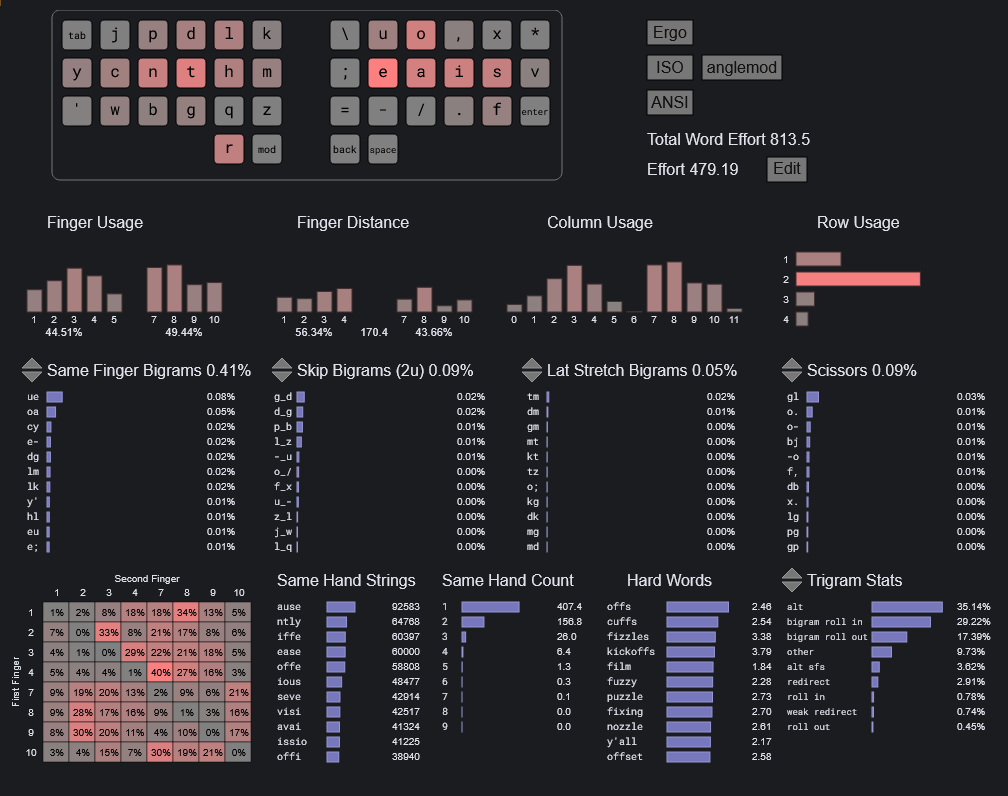
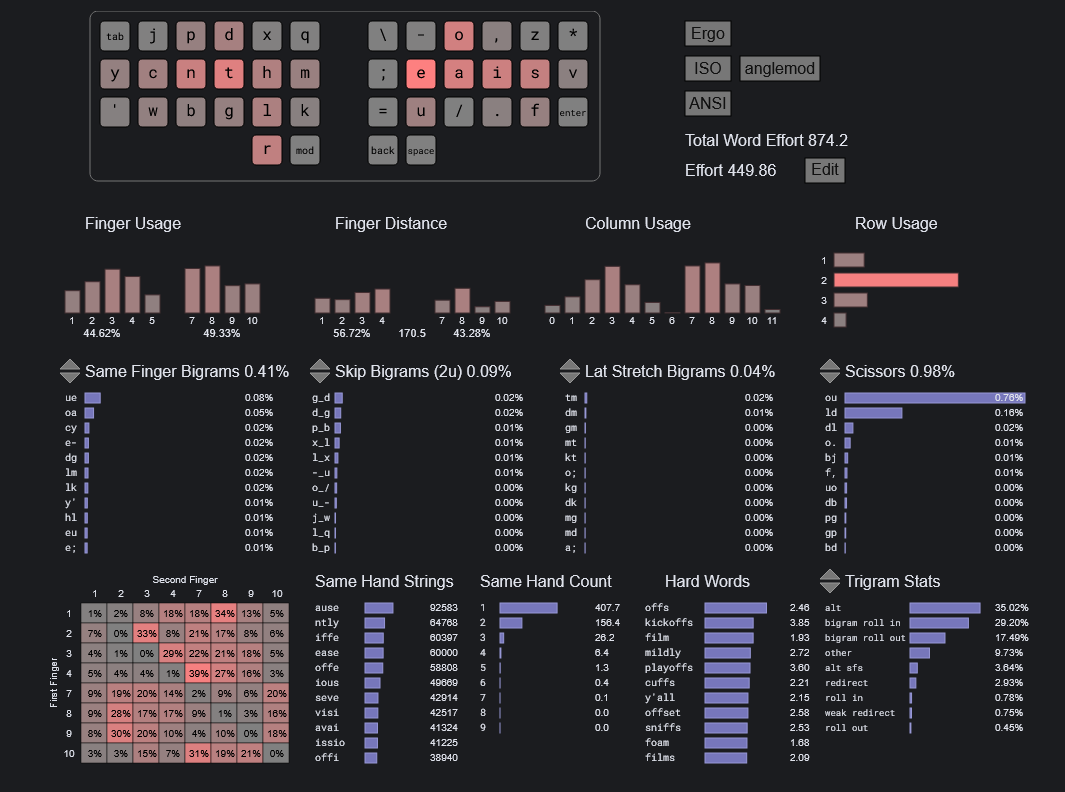
Flip index finger keys along horizontal axis.

diff --git a/README.md b/README.md
@@ -9,9 +9,9 @@
 ### Tressym
 
 ```text
-  j p d l k  / u o , x
+  j p d x q  / - o , x
 y c n t h m  ; e a i s v
-  w b g q z  T - ? . f
+  w b g l z  T u ? . f
         r R  S '
 ```
 
